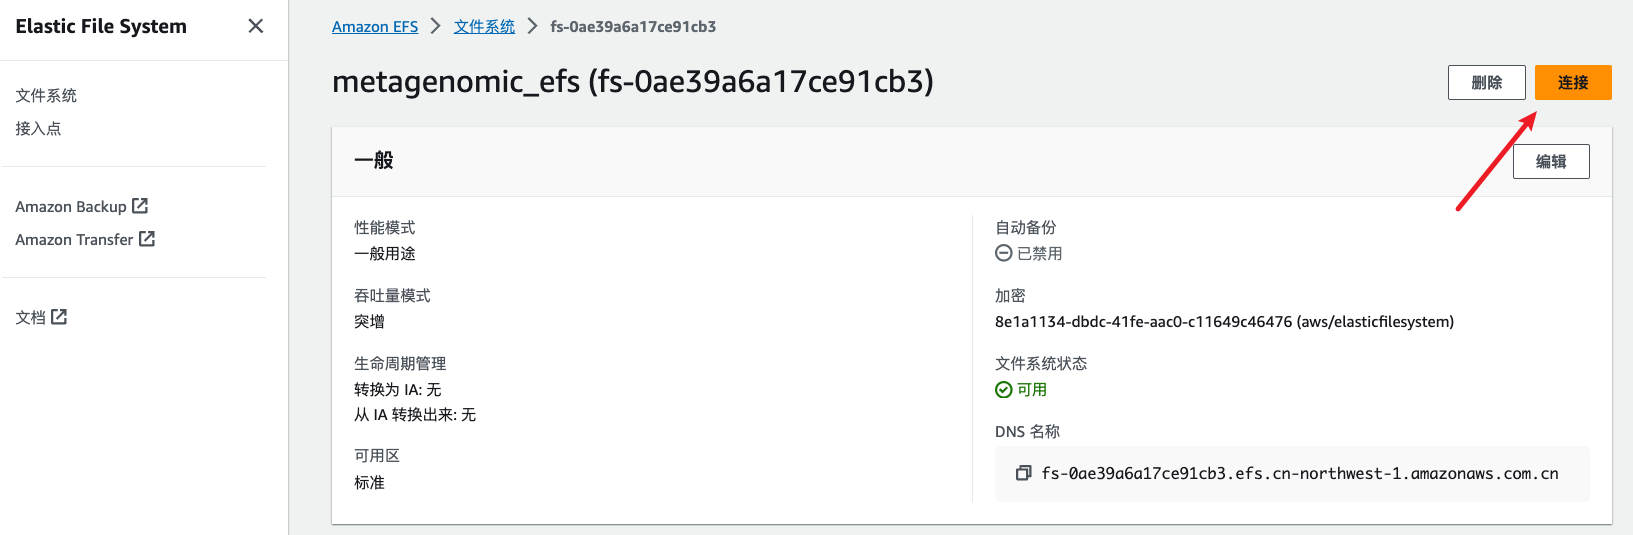
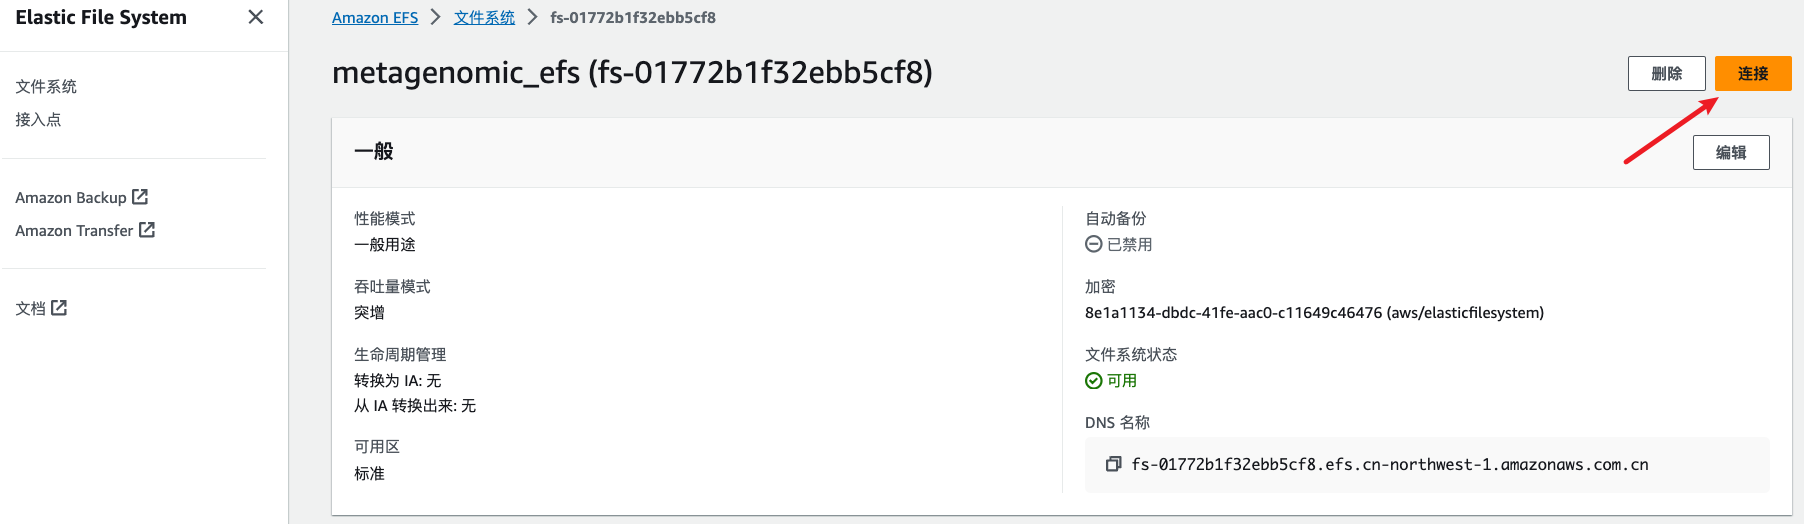
10.6

diff --git a/workshop/content/introduction/metagenomic/index.zh.md b/workshop/content/introduction/metagenomic/index.zh.md
@@ -1,16 +1,28 @@
 ---
-title : "AWS上宏基因分析业务流程"
+title : "AWS上的宏基因分析业务"
 weight : 11
 ---
 
-## 宏基因分析业务简介
+### 1.宏基因分析业务简介
+
+
+宏基因分析是一种利用生物信息学技术来研究微生物群落物种和功能的方法。它通过对微生物群落的全部DNA进行高通量测序，然后将测序序列与公共数据库进行比对或从头组装出微生物基因组，从而识别微生物群落的物种和功能基因，以了解微生物的多样性、种群结构、功能活性、相互协作关系以及与环境之间的关系。宏基因分析的一般流程包括以下步骤：
+- 数据预处理：对原始序列进行去接头、质量剪切以及去除污染等优化处理。
+- 组装和基因预测：使用优质序列进行拼接组装和基因预测，得到各样本预测得到的基因集合。
+- 基因集合的处理：将各样本预测得到的基因集合进行去冗余，得到非冗余基因集。
+- 物种注释：将非冗余基因集序列与参考数据库比对，得到物种信息，分析得到整个基因集的物种信息。
+- 功能注释：将非冗余基因集序列与功能数据库比对，获得基因集的功能注释信息，如COG功能注释、KEGG功能注释等。
+- 特殊数据库注释：将非冗余基因集序列与特殊数据库比对，如CAZy数据库（碳水化合物活性酶）和CARD数据库（抗生素抗性基因），获得基因集特殊的功能信息。
 
 ![](/static/intro-bioinfo-analysis.png)
 
-一个常见的流程
+宏基因组业务在环境科学、生态学、微生物学等领域具有广泛的应用价值，可以帮助我们更好地理解微生物的生态功能和环境适应性，为环境保护、生态修复和农业生产等提供科学依据。
+
+### 2.基于AWS服务的宏基因分析方案
+本工作坊的方案基于一个常见的宏基因分析流程所设计，流程如下图所示：
 
 ![](/static/intro-meta-pipeline.png)
 
-亚马逊云科技支撑应对图
+本方案对宏基因分析流程中所用到的软件做了容器化适配，基于AWS的计算和存储等服务构建了高性能计算集群，支持大规模任务的批量分析；此外还构建了自动化工作流，将分析流程解耦，用不同计算实例适配不同任务类型，旨在优化云上的分析成本和减少运维操作。AWS服务如何支撑具体业务如下图所示：
 
 ![](/static/intro-meta-aws.png)

diff --git a/workshop/content/introduction/scenario/index.zh.md b/workshop/content/introduction/scenario/index.zh.md
@@ -1,27 +1,44 @@
 ---
-title : "业务场景及对应架构"
+title : "业务场景"
 weight : 12
 ---
 
-## 本方案适合的业务场景及对应架构
+本方案主要适合两个业务场景：
+- 大规模批量任务分析：有大量的样本需要进行批量处理，比如有几千组样本要进行质控处理
+- 自动化流程：自动化运行某个（或多个）分析流程中的每一个任务，比如 质控->组装->分箱提炼->注释
 
-1.大规模批量任务分析
+### 1.大规模批量任务分析
+
+本业务场景以批量计算服务AWS Batch为核心，构建了一个高性能计算集群
+- 支持同时进行数千、数万任务的分析
+- 方案内置了质控、分箱提炼、注释等分析脚本
+- 提供内置任务提交程序的Notebook作为用户工作台，用户只需要准备输入文件和文件列表，在Notebook中通过Python提交任务即可
+- 计算资源根据实际的任务状态动态生成和销毁
+
+该业务场景的AWS架构图如下所示：
 
 ![](/static/arch-batch.png)
 
-2.自动化工作流
+### 2.自动化流程
+
+在高性能集群之上，基于可视化的工作流服务AWS Step Functions，构建了一个自动化的分析流程
+- 根据流程中不同任务对计算资源的不同需求做了解耦，用不同计算实例适配不同任务类型，以达到优化成本的目的，如分别使用不同的实例类型c6g.4xlarge(arm)、c6i.24xlarge、c6i.8xlarge、c6i.12xlarge来运行质控、组装、分箱、注释任务：
+- 用户只需一次性地启动流程，无需手动执行每个步骤
+- 通过订阅邮件来接收流程执行状态：成功或失败
+
+该业务场景的AWS架构图如下所示：
 
 ![](/static/arch-pipeline.png)
 
 
-## 主要用到的AWS服务
+### 3.主要用到的AWS服务及其用途
 本方案主要用到了以下AWS服务：
 - Batch：批量计算，自动计算资源调度
 - EC2：适合各种计算需求的实例类型，Arm架构的Graviton实例提升性价比，Spot实例降低成本
-- S3：数据存储，通过智能分层 优化成本
+- S3：数据存储，通过智能分层优化成本
 - ECR：容器镜像仓库
 - DynamoDB：存储任务状态信息
 - EFS：共享文件系统，存储任务运行脚本
-- SageMaker Notebook：任务投递客户端
+- SageMaker Notebook：用户工作台，任务投递
 - Step Functions：自动化工作流
-- SNS：邮件通知服务
+- SNS：流程执行状态邮件通知

diff --git a/workshop/content/deploy/scripts/index.zh.md b/workshop/content/deploy/scripts/index.zh.md
@@ -1,16 +1,18 @@
 ---
 title : "任务脚本"
-weight : 34
+weight : 332
 ---
+
+把任务脚本复制到方案部署时创建的EFS文件系统中供任务执行的时候调用
 
 1.笔记本实例中新建一个终端
 
 ![](/static/notebook-terminal.png)
 
-2.切到ec-user用户，安装EFS Client
+2.执行如下命令切到ec-user用户，安装EFS Client
 :::code{showCopyAction=true showLineNumbers=false language=bash}
 sudo su ec2-user
-sudo yum install -y amazon-efs-utils
+sudo yum install amazon-efs-utils -y
 :::
 
 ![](/static/notebook-efs-utils.png)
@@ -20,10 +22,10 @@ sudo yum install -y amazon-efs-utils
 ![](/static/notebook-efs-mount-1.png)
 ![](/static/notebook-efs-mount-2.png)
 
-4.新建一个挂载点，如efs，挂载EFS文件系统到该挂载点
+4.新建一个挂载点，如efs，复制上一步的挂载命令挂载EFS文件系统到该挂载点，如：
 :::code{showCopyAction=true showLineNumbers=false language=bash}
 mkdir efs
-sudo mount -t efs -o tls fs-0ae39a6a17ce91cb3:/ efs
+sudo mount -t efs -o tls fs-01772b1f32ebb5cf8:/ efs
 :::
 
 5.df查看是否挂载成功
@@ -35,6 +37,7 @@ df -h
 
 6.复制scripts目录下的脚本到EFS
 :::code{showCopyAction=true showLineNumbers=false language=bash}
+sudo chown ec2-user:ec2-user -R efs/
 cp scripts/*.sh efs/
 ll efs/
 :::

diff --git a/workshop/content/deploy/configuration/container/provisioned/index.zh.md b/workshop/content/deploy/configuration/container/provisioned/index.zh.md
@@ -1,6 +1,6 @@
 ---
-title : "预置镜像"
-weight : 330
+title : "使用预置镜像"
+weight : 3310
 ---
 
 1.本方案预先构建了4个容器镜像，简便起见，放在同一个镜像仓库中，通过标签来区分：
@@ -16,9 +16,10 @@ weight : 330
 |annotation|seqkit, seqtk, drep, coverm, cd-hit, minimap2, checkm, mummer, metaphlan, prodigal, gtdbtk, parallel, mamba, mount-s3, awscli|:code[public.ecr.aws/n5d9q4w7/metagenomic:annotation]{showCopyAction=true}|
 |diamond|diamond, sratoolkit, seqkit, fastp, awscli|:code[public.ecr.aws/n5d9q4w7/metagenomic:diamond]{showCopyAction=true}|
 
-2.打开:link[SageMaker Notebook控制台]{href="https://cn-northwest-1.console.amazonaws.cn/sagemaker/home?region=cn-northwest-1#/notebook-instances"}, 打开笔记本实例的JupyterLab:
-![](/static/notebook-console.png)
-
-进入metagenomic-analysis-on-aws/notebook目录，可通过执行container-images.ipynb笔记本中的脚本把预置镜像推送到你自己账号的ECR中：
+2.JupyterLab中进入metagenomic-analysis-on-aws/notebook目录，打开笔记本container-images.ipynb，执行脚本把预置镜像推送到你自己账号的ECR中：
 
 ![](/static/notebook-container.png)
+
+完成之后，在你自己的ECR中会有这4个镜像：
+
+![](/static/notebook-ecr.png)

diff --git a/workshop/content/introduction/index.zh.md b/workshop/content/introduction/index.zh.md
@@ -1,40 +1,7 @@
 ---
-title : "介绍"
+title : "方案介绍"
 weight : 10
 ---
 
-## 工作坊目标角色
-- 高校或科研机构中，希望利用云加速宏基因分析科研任务的客户
-- 基因分析行业公司，希望利用云优化其工作流的客户
-
-## 能力要求
-- 熟悉Linux Shell
-- 熟悉Python
-
-## 工作坊内容
-- 基于AWS CDK部署容器化基因分析工作负载
-- 大规模分析任务
-- 自动化流程任务
-
-## 方案适合的业务场景及对应架构
-
-大规模批量任务分析
-
-![](/static/arch-batch.png)
-
-自动化工作流
-
-![](/static/arch-pipeline.png)
-
-
-## 用到的AWS服务
-本方案主要用到了以下AWS服务：
-- Batch：批量计算，自动计算资源调度
-- EC2：适合各种计算需求的实例类型，Arm架构的Graviton实例提升性价比，Spot实例降低成本
-- S3：数据存储，通过智能分层 优化成本
-- ECR：容器镜像仓库
-- DynamoDB：存储任务状态信息
-- EFS：共享文件系统，存储任务运行脚本
-- SageMaker Notebook：任务投递客户端
-- Step Functions：自动化工作流
-- SNS：邮件通知服务
+本节对本方案的内容做了整体介绍，包括以下三部分的内容：
+::children

diff --git a/workshop/content/index.zh.md b/workshop/content/index.zh.md
@@ -5,4 +5,4 @@ weight: 0
 
 # 宏基因分析方案
 
-本方案对常用的一些宏基因分析软件完成了容器化，并以AWS的批量计算服务Batch为核心，构建容器化的宏基因分析集群。旨在帮助帮助用户最小化运维管理，能够以一种简单的、成本优化的方式运行大规模的宏基因分析任务。
+本方案对常用的一些宏基因分析软件完成了容器化，并以AWS的批量计算服务Batch为核心，构建容器化的宏基因分析集群和自动化工作流。旨在帮助帮助用户最小化运维管理，能够以一种简单的、成本优化的方式运行大规模的宏基因分析任务和优化云上任务流程。

diff --git a/workshop/content/introduction/target/index.zh.md b/workshop/content/introduction/target/index.zh.md
@@ -1,17 +1,18 @@
 ---
-title : "工作坊内容及目标"
+title : "工作坊内容"
 weight : 13
 ---
 
-## 工作坊内容
+### 1.内容
 - 基于AWS CDK部署容器化基因分析工作负载
 - 大规模批量分析任务测试
 - 自动化流程任务测试
 
-## 工作坊目标角色
+### 2.目标角色
 - 高校或科研机构中，希望利用云加速宏基因分析科研任务的客户
 - 基因分析行业公司，希望利用云优化其工作流的客户
 
-## 能力要求
+### 3.能力要求
 - 熟悉Linux Shell
 - 熟悉Python
+- 对AWS的服务有初步了解

diff --git a/workshop/content/deploy/configuration/container/build/index.zh.md b/workshop/content/deploy/configuration/container/build/index.zh.md
@@ -1,9 +1,9 @@
 ---
 title : "构建镜像"
-weight : 331
+weight : 3311
 ---
 
-也可以自己构建镜像并推送到ECR中，以下是预置的4个镜像的Dockerfile，供参考：
+如果有其它软件需要使用，也可以自己构建镜像并推送到ECR中，以下是预置的4个镜像的Dockerfile，供参考（此处假设用户熟悉如何构建容器镜像，具体推送方法可以参考上一节内容或者ECR镜像仓库中的推送命令）：
 ### 1.qc
 :::code{showCopyAction=true showLineNumbers=false language=bash}
 FROM amazonlinux:2

diff --git a/workshop/content/deploy/configuration/ref-data/index.zh.md b/workshop/content/deploy/configuration/ref-data/index.zh.md
@@ -1,9 +1,9 @@
 ---
 title : "参考数据库"
-weight : 35
+weight : 333
 ---
 
-1.复制任务程序所需要的参考数据库到你自己的S3存储桶中
+宏基因分析的软件有些需要依赖参考数据库，通过以下命令复制任务程序所需要的参考数据库到你自己的S3存储桶中
 ::alert[123456789012换成你自己的账户ID]
 
 :::code{showCopyAction=true showLineNumbers=false language=bash}

diff --git a/workshop/content/deploy/configuration/index.zh.md b/workshop/content/deploy/configuration/index.zh.md
@@ -1,0 +1,8 @@
+---
+title : "配置工作"
+weight : 33
+---
+
+完成部署之后，还需要一些其它配置工作，本方案部署了一个Notebook作为工作台方便用户操作，登录:link[SageMaker Notebook控制台]{href="https://cn-northwest-1.console.amazonaws.cn/sagemaker/home?region=cn-northwest-1#/notebook-instances"}，打开笔记本实例的JupyterLab进行操作:
+
+![](/static/notebook-console.png)

diff --git a/workshop/content/job/pipeline/index.zh.md b/workshop/content/job/pipeline/index.zh.md
@@ -1,9 +1,9 @@
 ---
-title : "自动化工作流"
+title : "自动化流程"
 weight : 52
 ---
 
-本节演示如何运行自动化工作流
+本节演示如何运行自动化分析流程
 
 1.打开notebook/job-submit-stepfunctions.ipynb，运行python提交任务.
 ::alert[123456789012换成你自己的账户ID]

diff --git a/workshop/content/job/index.zh.md b/workshop/content/job/index.zh.md
@@ -3,5 +3,5 @@ title : "任务测试"
 weight : 50
 ---
 
-本节通过2个示例演示如何运行大规模任务和自动化工作流
+本节通过2个示例演示如何运行大规模批量任务和自动化分析流程
 ::children
